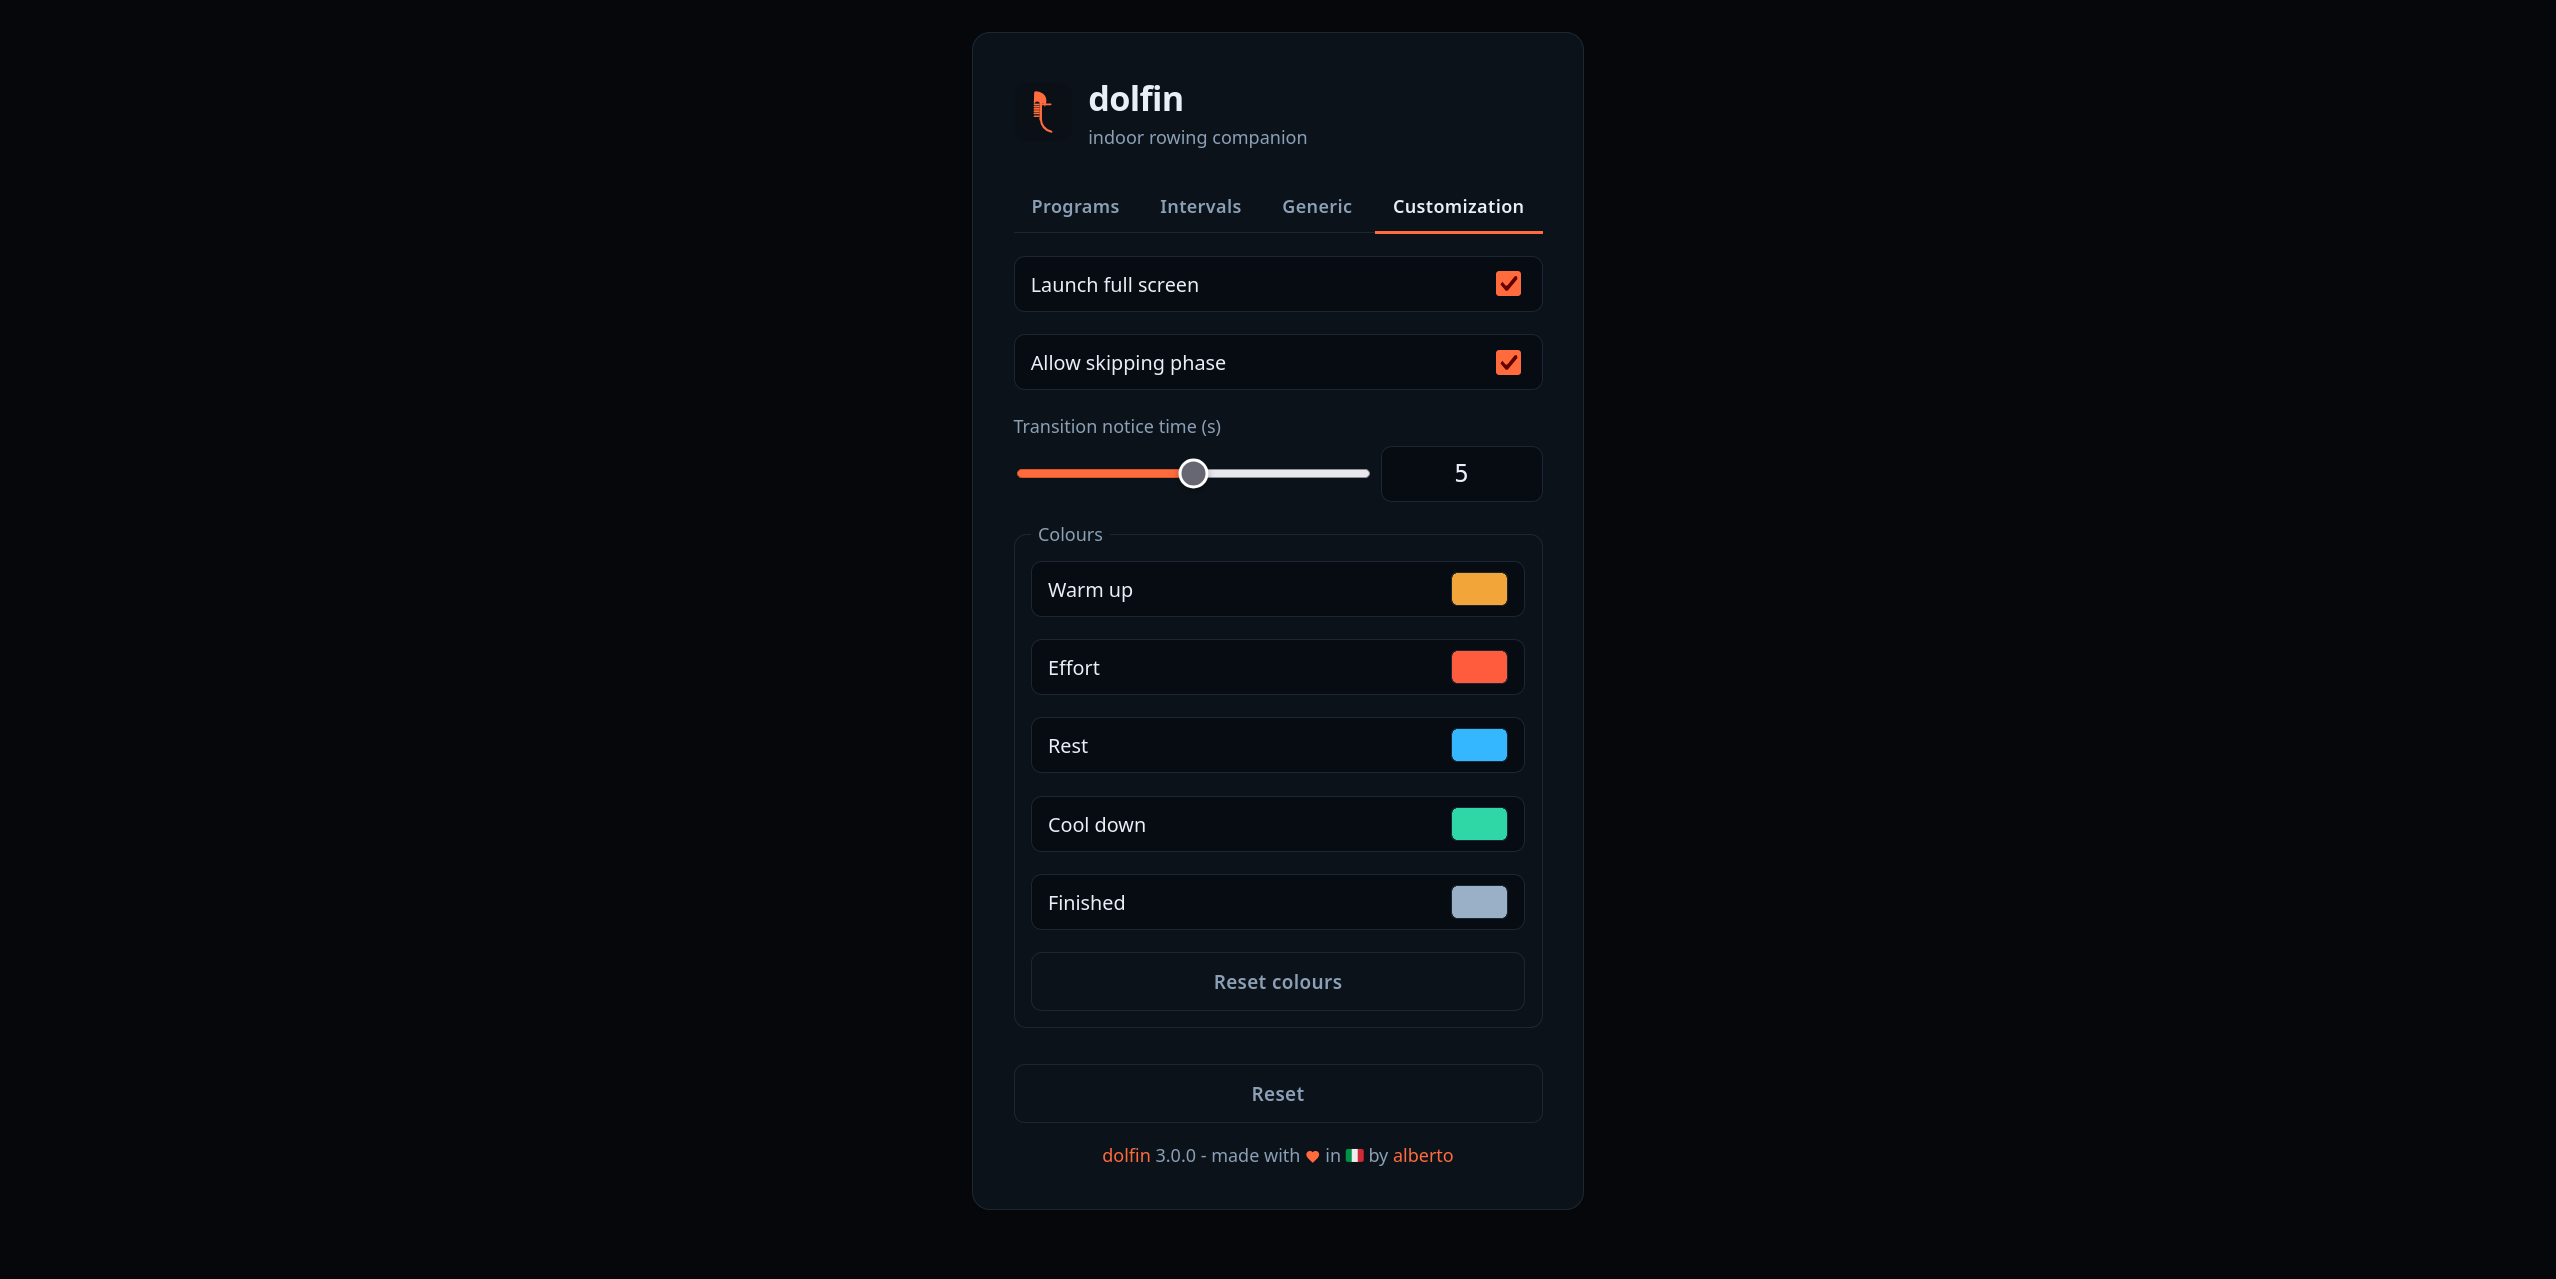
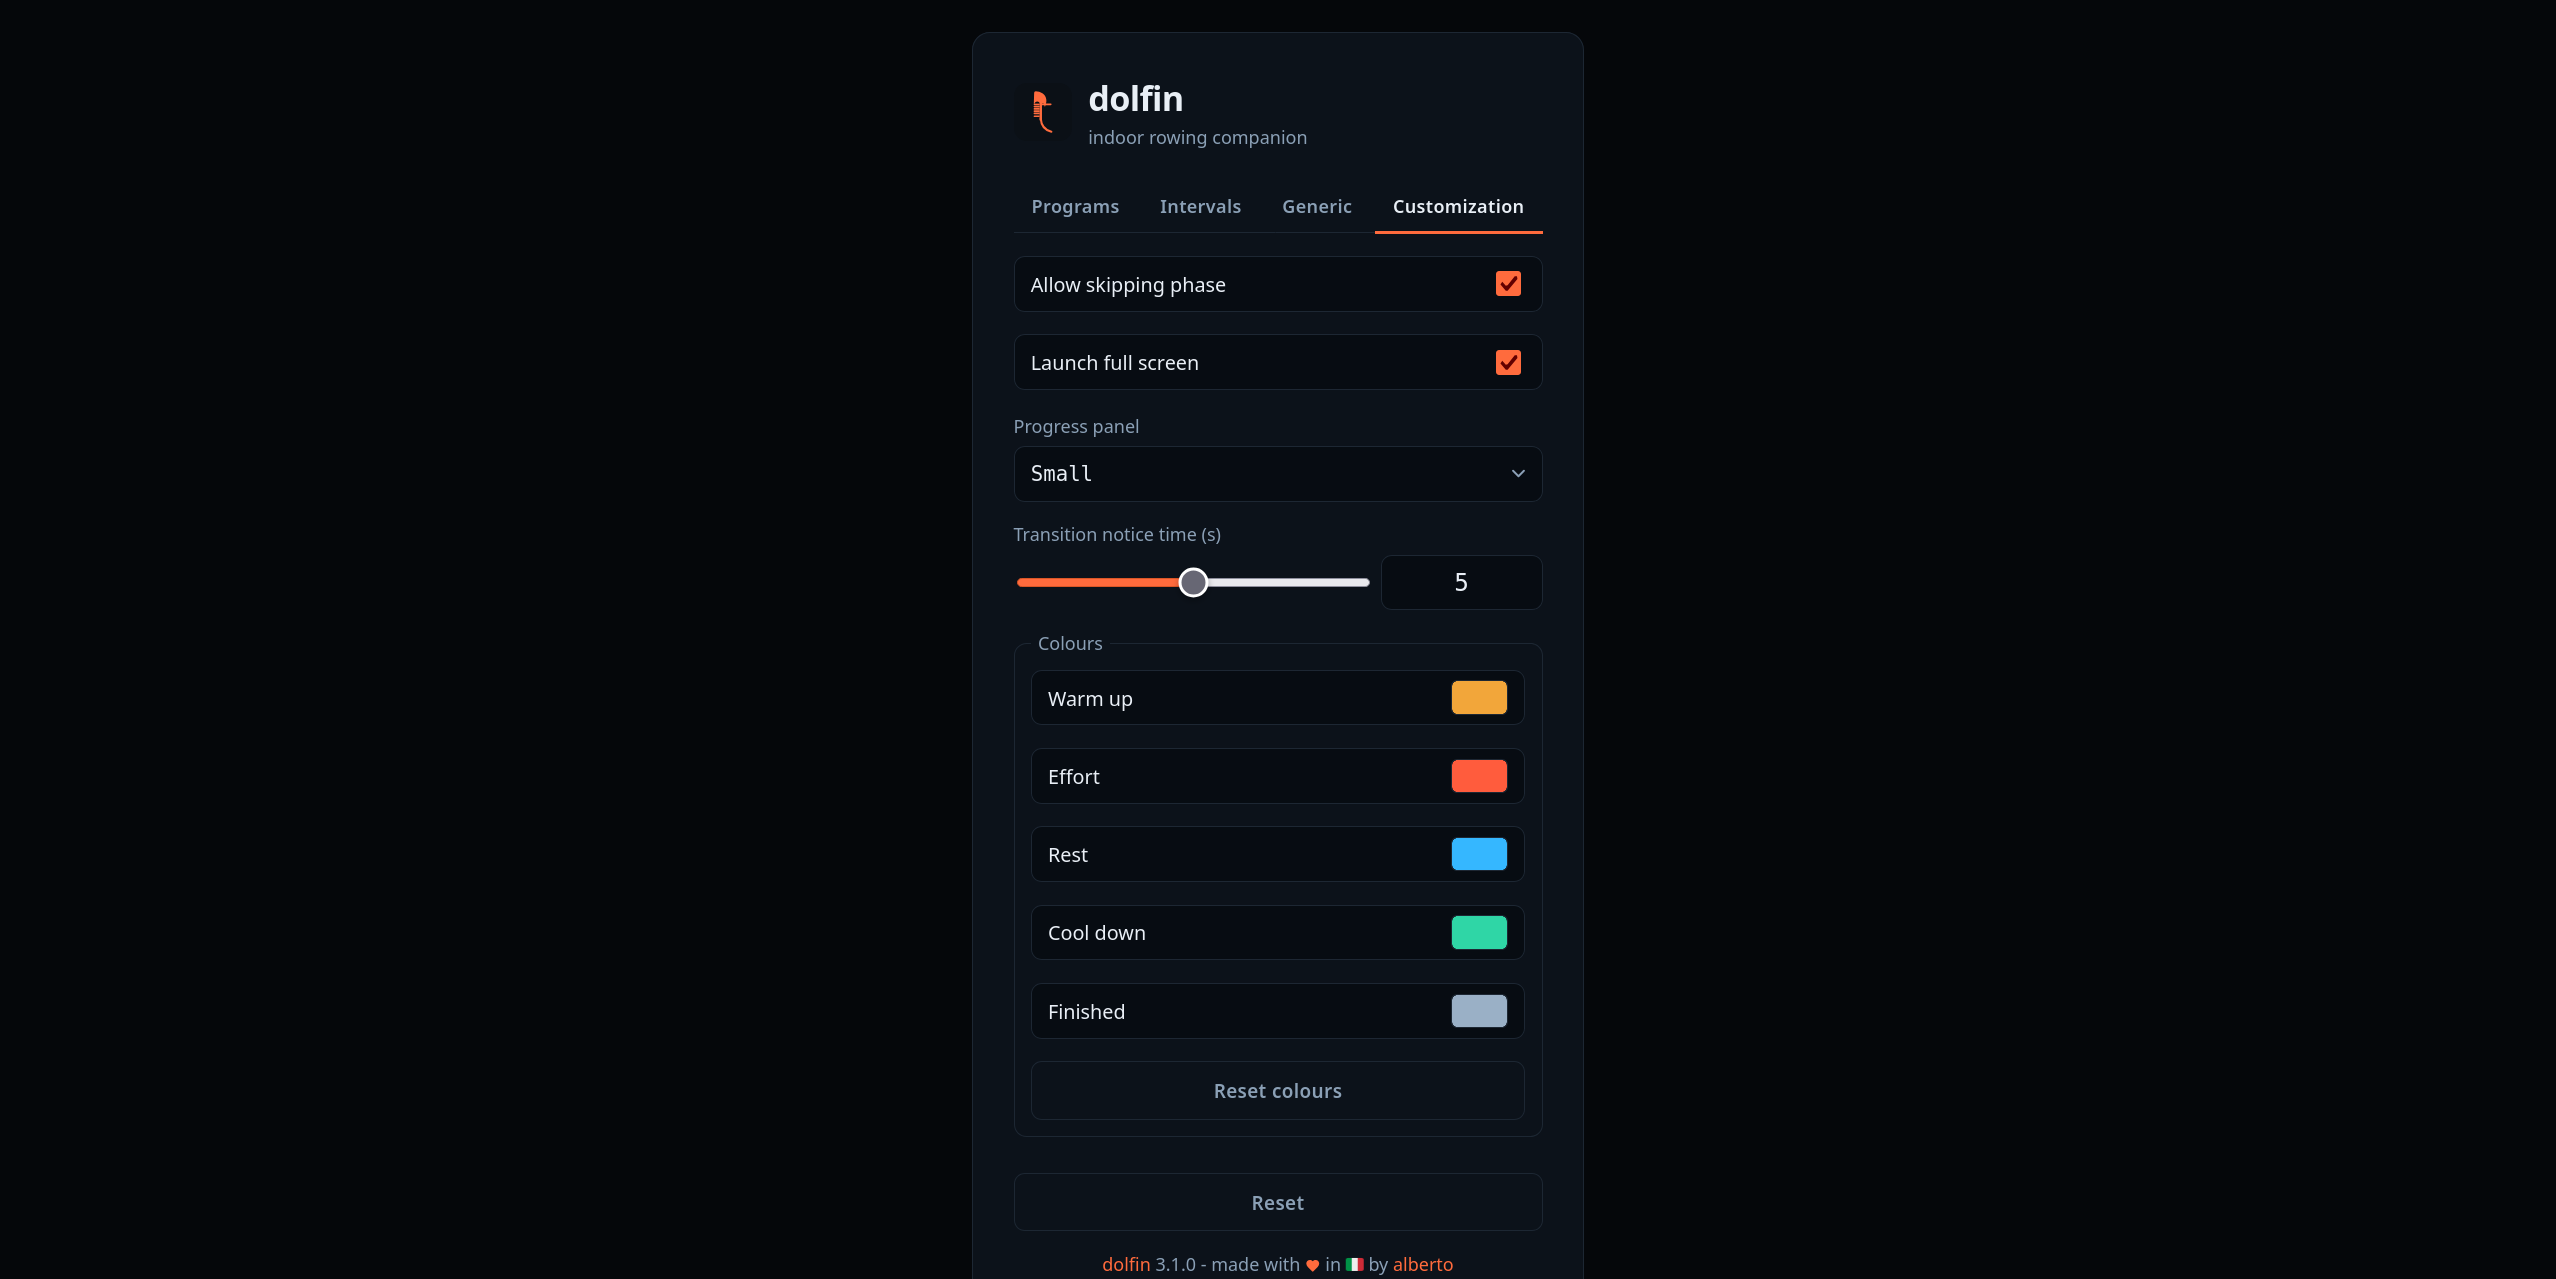
Document the Progress panel setting in the README
The Customization table gains the setting and its default, and its rows
follow the order the tab now lists them in. The screenshot is retaken with
the dropdown in it.

diff --git a/README.md b/README.md
@@ -151,8 +151,9 @@ to the **Workout** screen for all types of workout
 
 | Control                    | Default    |
 | -------------------------- | ---------- |
-| Launch full screen         | `True`     |
 | Allow skipping phase       | `True`     |
+| Launch full screen         | `True`     |
+| Progress panel             | `Small`    |
 | Transition notice time (s) | `00:00:05` |
 
 The **Transition notice time** setting represents
